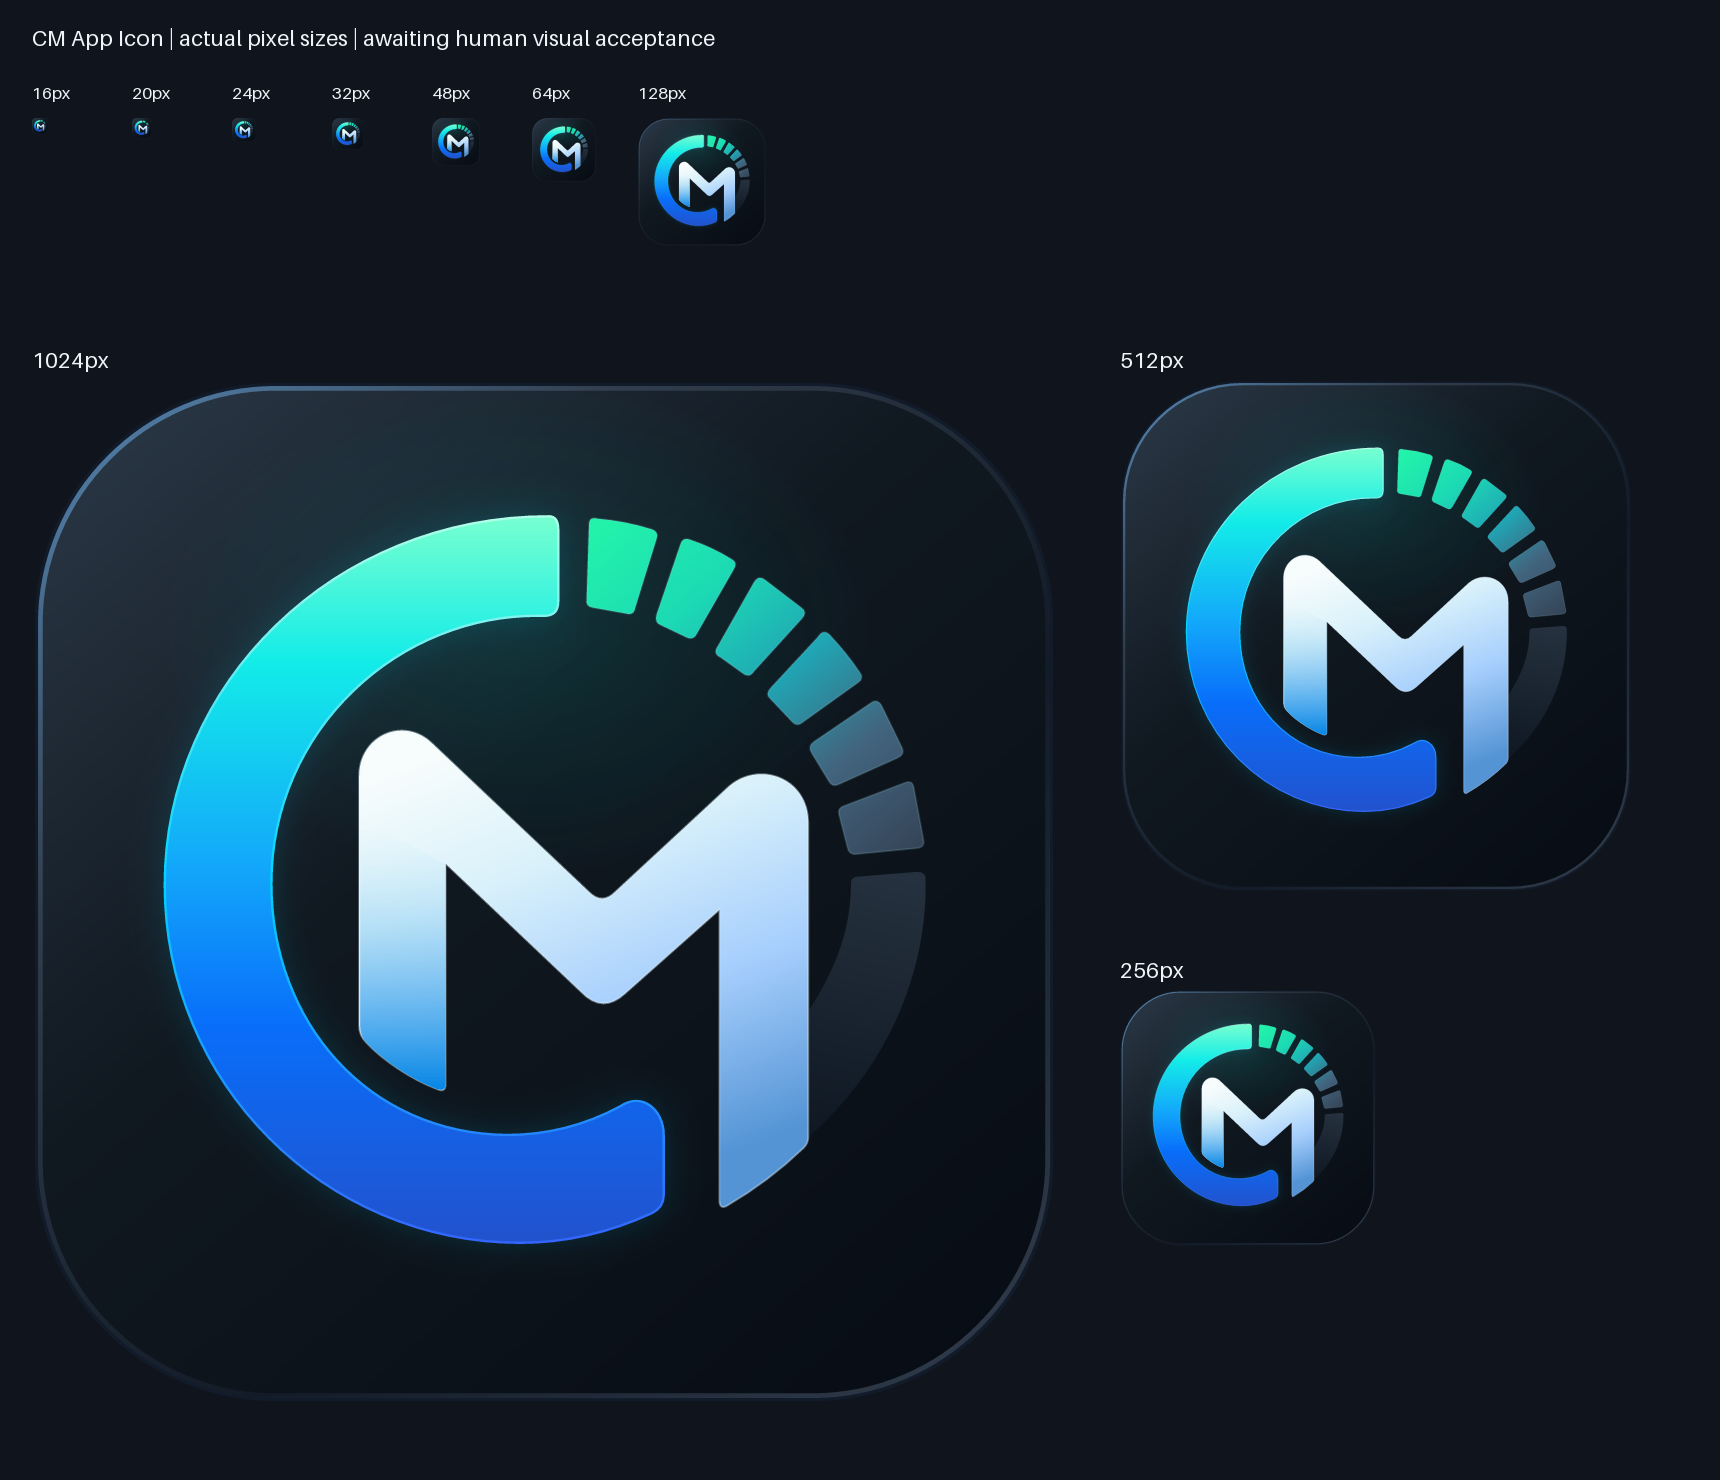
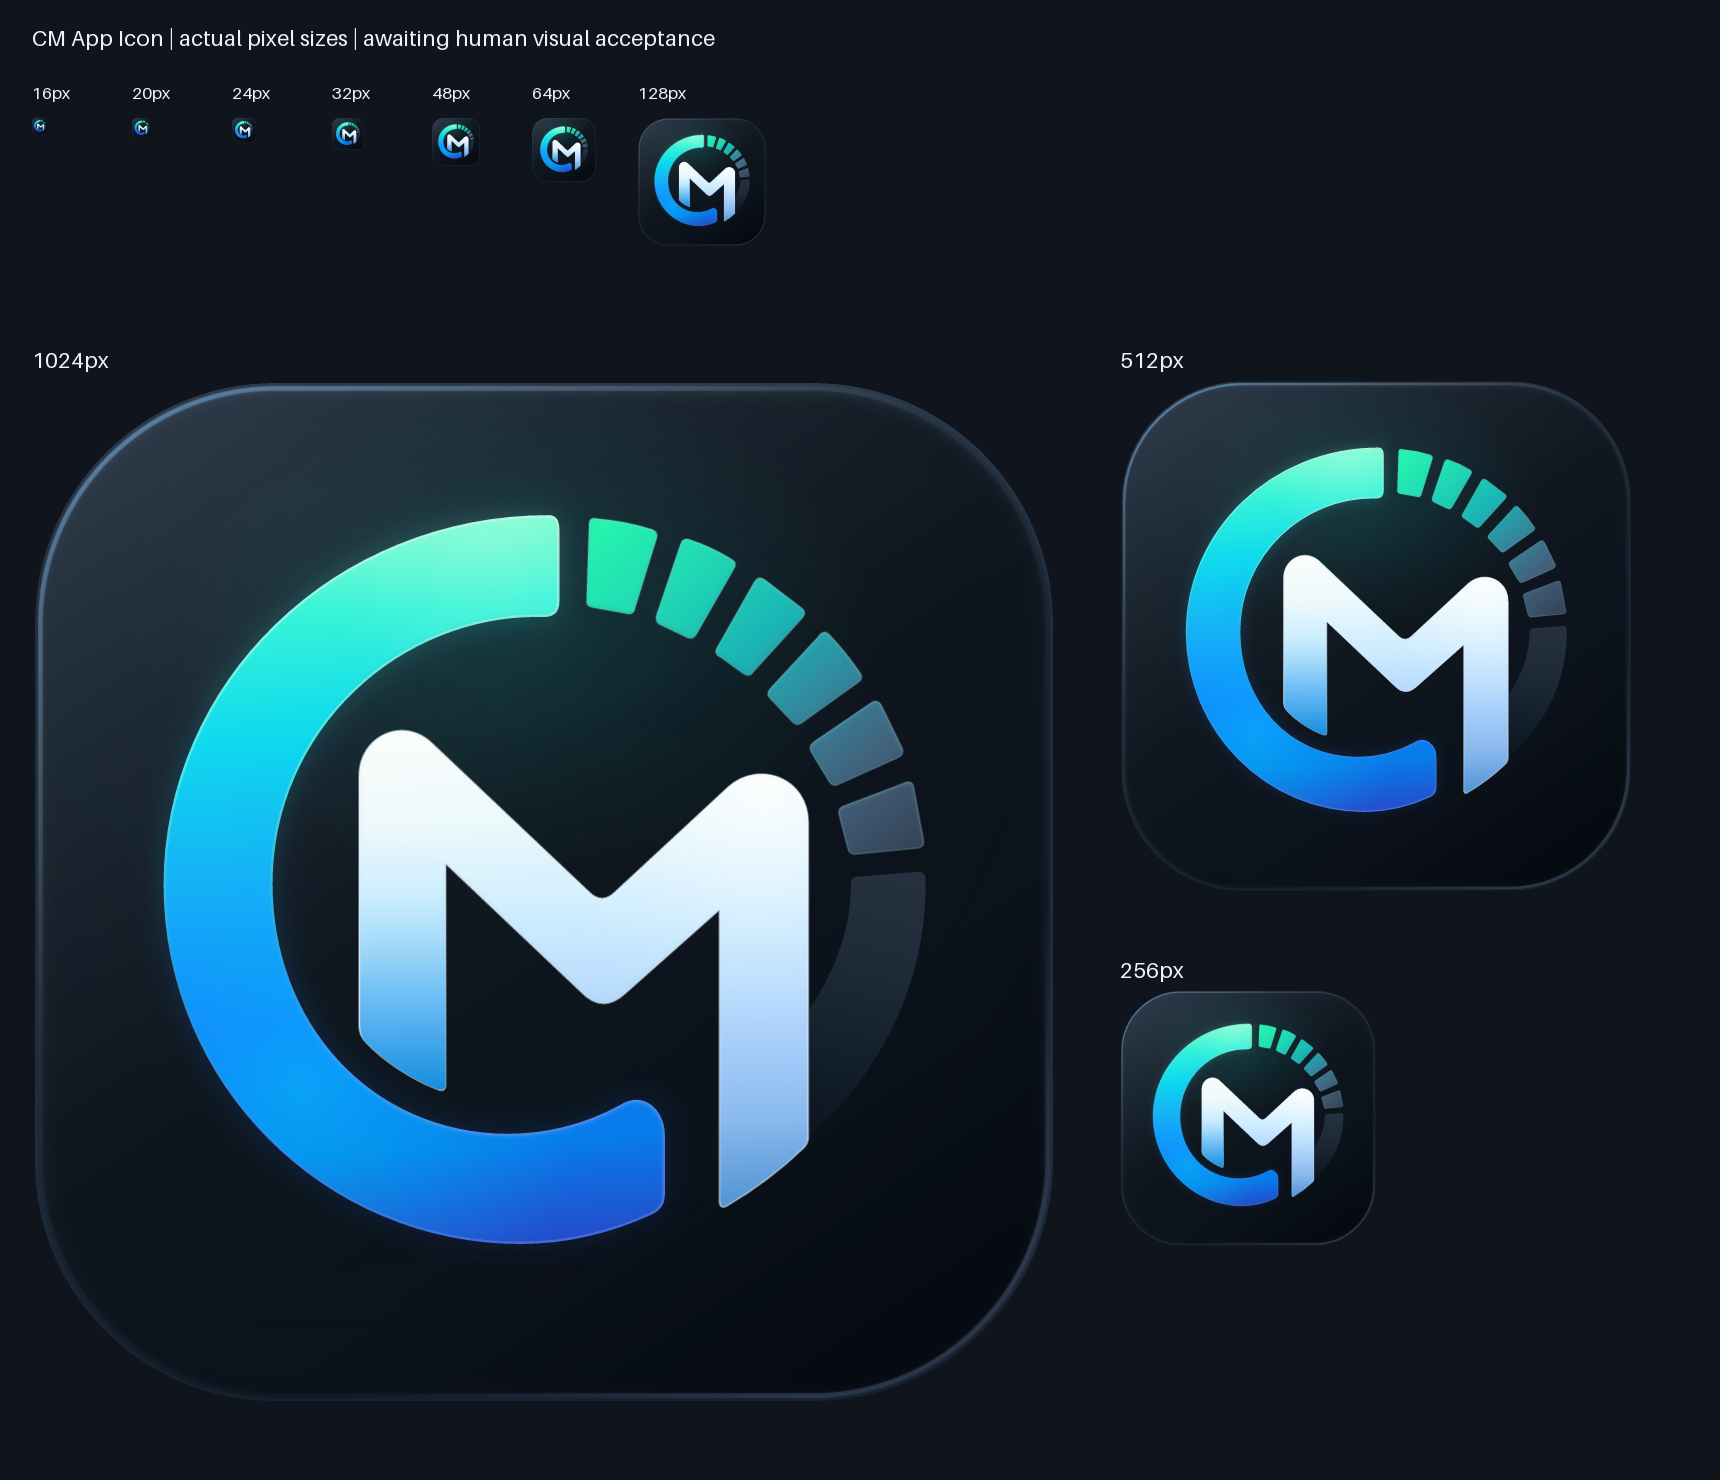
docs: record CM material fidelity validation

diff --git a/docs/branding/v1.2/validation/cm-material-review.py b/docs/branding/v1.2/validation/cm-material-review.py
@@ -1,0 +1,131 @@
+"""Reproduce material-only geometry/tiny checks and Reference / Before / After sheets.
+Run with Python + Pillow after node scripts/generate-brand-icons.mjs.
+Before is read from the accepted Git baseline, never from an unlabelled raster.
+"""
+from io import BytesIO
+from pathlib import Path
+import hashlib
+import json
+import subprocess
+import xml.etree.ElementTree as ET
+from PIL import Image, ImageDraw, ImageFont, ImageChops
+
+ROOT = Path(__file__).resolve().parents[4]
+BASE = '93ce0b2684cb7272bb30ccc8cb56fa045d0c3bb8'
+BRAND = 'docs/branding/v1.2/'
+OUT = 'src-tauri/icons/'
+DEST = ROOT / BRAND / 'validation'
+
+
+def before(path):
+    return subprocess.check_output(['git', 'show', f'{BASE}:{path}'], cwd=ROOT)
+
+
+def current(path):
+    return (ROOT / path).read_bytes()
+
+
+def decoded(data):
+    image = Image.open(BytesIO(data))
+    image.load()
+    return image.convert('RGBA')
+
+
+def digest(data):
+    return hashlib.sha256(data).hexdigest()
+
+
+reference = current(BRAND + 'app-icon-reference.png')
+assert reference == before(BRAND + 'app-icon-reference.png')
+assert len(reference) == 1316884
[1 lines of base64/hex data omitted]
+assert decoded(reference).size == (1254, 1254)
+old_svg = ET.fromstring(before(BRAND + 'app-icon-source.svg'))
+new_svg = ET.fromstring(current(BRAND + 'app-icon-source.svg'))
+# Additional uses are explicitly permitted material overlays. They reference
+# existing path definitions, contain no geometry/transform and cannot extend them.
+overlays = {'c-cyan-light-overlay': '#c', 'c-mint-light-overlay': '#c', 'm-ice-light-overlay': '#m'}
+geometry_tags = {'svg', 'path', 'rect', 'ellipse', 'circle', 'line', 'polygon', 'polyline', 'clipPath', 'use'}
+geometry_attributes = {'d', 'x', 'y', 'width', 'height', 'rx', 'ry', 'cx', 'cy', 'r', 'points',
+                       'viewBox', 'transform', 'href', 'stroke-width', 'clip-path'}
+
+
+def geometry(root):
+    result = []
+    for element in root.iter():
+        if element.get('id') in overlays:
+            assert element.tag.endswith('use')
+            assert element.get('href') == overlays[element.get('id')]
+            assert set(element.attrib) == {'id', 'href', 'fill'}
+            continue
+        if element.tag.split('}')[-1] in geometry_tags:
+            result.append((element.tag, {key: value for key, value in element.attrib.items() if key in geometry_attributes}))
+        # Also disallow material transforms on ancestor groups.
+        if element.tag.endswith('g'):
+            assert 'transform' not in element.attrib
+    return result
+
+
+assert geometry(old_svg) == geometry(new_svg), 'Blocked — CM Geometry Drift'
+for tag in ('path', 'rect', 'ellipse', 'clipPath'):
+    assert sum(e.tag.split('}')[-1] == tag for e in old_svg.iter()) == sum(e.tag.split('}')[-1] == tag for e in new_svg.iter())
+assert before(BRAND + 'app-icon-small-source.svg') == current(BRAND + 'app-icon-small-source.svg')
+for path in ('scripts/generate-brand-icons.mjs', 'scripts/validate-brand-icons.py'):
+    assert before(path) == current(path)
+tiny_files = [OUT + f'{kind}-{size}.png' for kind in ['app', 'tray'] for size in [16, 20]]
+tiny_files.append(OUT + 'ios/AppIcon-20x20@1x.png')
+for path in tiny_files:
+    assert before(path) == current(path), f'Tiny bytes changed: {path}'
+alpha_checks = []
+for size in [16, 20, 24, 32, 48, 64, 128, 256, 512, 1024]:
+    old = decoded(before(OUT + f'app-{size}.png'))
+    new = decoded(current(OUT + f'app-{size}.png'))
+    oa, na = old.getchannel('A'), new.getchannel('A')
+    # Lighting is confined to the tile; no new interior transparent holes.
+    interior = oa.point(lambda value: 255 if value == 255 else 0)
+    missing = na.point(lambda value: 255 if value < 255 else 0)
+    assert ImageChops.multiply(interior, missing).getbbox() is None
+    assert na.getbbox() == oa.getbbox()
+    alpha_checks.append({'size': size, 'same_alpha_bbox': True, 'no_new_transparent_holes': True,
+                         'alpha_byte_identical': oa.tobytes() == na.tobytes()})
+# Main blur has 20% filter padding (> 3 sigma) and remains well inside the tile.
+blur = next(e for e in new_svg.iter() if e.get('id') == 'soft-glow')
+sigma = float(next(iter(blur)).get('stdDeviation'))
+assert sigma * 3 < min(421 * .2, 613 * .2, 307 - 199, 298 - 187)
+assert blur.get('x') == '-20%' and blur.get('width') == '140%'
+
+# Display-only crop follows the frozen viewBox. At transparent rounded corners,
+# the baseline silhouette masks the presentation background/shadow. The approved
+# PNG is never written back or used as a runtime input.
+reference_tile = decoded(reference).crop((195, 183, 1059, 1047))
+font = ImageFont.load_default(size=25)
+small = ImageFont.load_default(size=19)
+layout = [(256, 130), (512, 480), (1024, 1080)]
+for theme, bg, fg in [('light', '#eceff3', '#17202b'), ('dark', '#10141c', '#eef3fa')]:
+    sheet = Image.new('RGBA', (3216, 2160), bg)
+    draw = ImageDraw.Draw(sheet)
+    draw.text((32, 20), 'CM MATERIAL | REFERENCE / BEFORE / AFTER | Human visual acceptance pending', font=font, fill=fg)
+    draw.text((32, 60), 'Actual 256 / 512 / 1024 pixels. Reference: tile-only crop; Before: 93ce0b2; After: current CM source.', font=small, fill=fg)
+    for size, y in layout:
+        original = decoded(before(OUT + f'app-{size}.png'))
+        polished = decoded(current(OUT + f'app-{size}.png'))
+        ref = reference_tile.resize((size, size), Image.Resampling.LANCZOS)
+        ref.putalpha(original.getchannel('A'))
+        for column, (label, image) in enumerate([('REFERENCE', ref), ('BEFORE', original), ('AFTER', polished)]):
+            x = 32 + column * 1064
+            draw.text((x, y - 34), f'{label} | {size}px', font=font, fill=fg)
+            sheet.alpha_composite(image, (x, y))
+    sheet.convert('RGB').save(DEST / f'cm-material-compare-{theme}.png')
+report = {
+    'baseline': BASE, 'reference_unchanged': True, 'geometry_unchanged': True,
+    'geometry_records_compared': len(geometry(old_svg)),
+    'material_overlays': overlays, 'tiny_source_unchanged': True,
+    'generator_and_existing_validator_unchanged': True,
+    'tiny_byte_identical': {path: digest(current(path)) for path in tiny_files},
+    'alpha_checks': alpha_checks, 'glow_3sigma_inside_filter_and_tile': True,
+    'comparison_sizes': [256, 512, 1024],
+    'reference_display': 'Frozen viewBox crop, baseline silhouette alpha for presentation corners only',
+    'human_visual_acceptance': 'Pending; no similarity score or tool inspection establishes acceptance'
+}
+(DEST / 'cm-material-technical-validation.json').write_text(json.dumps(report, indent=2) + '\n')
+print('Material checks passed: geometry frozen, tiny bytes frozen, generator unchanged; 2 comparison sheets generated.')

diff --git a/docs/v1.2.0-feature-validation-report.md b/docs/v1.2.0-feature-validation-report.md
@@ -2,7 +2,7 @@
 
 ## State and provenance
 
-**Blocked** — implementation and historical cross-platform CI are complete. Branding: **Correct CM Runtime Rebuilt — Awaiting Human Visual Acceptance**. The complete approved reference has been verified and CM runtime assets reconstructed. Previous C + Bars visual/container conclusions remain invalidated. Remaining native platform gates and human visual acceptance are outstanding. This is feature development, not release preparation. Version files remain **1.1.0** until all feature/native prerequisites in the task are met. No downgrade support is claimed.
+**Blocked** — implementation and historical cross-platform CI are complete. Branding: **CM Material Fidelity Polish Complete — Awaiting Human Visual Acceptance**. The complete approved reference has been verified and CM runtime assets reconstructed. Previous C + Bars visual/container conclusions remain invalidated. Remaining native platform gates and human visual acceptance are outstanding. This is feature development, not release preparation. Version files remain **1.1.0** until all feature/native prerequisites in the task are met. No downgrade support is claimed.
 
 - Main baseline: `f99f084641c6d28d703bb20da002443bb1864ea8`.
 - Locked icon source / feature start: `297476c9c818174e7a53585041db34fc5be87e9e`, with the exact baseline parent.
@@ -41,7 +41,7 @@ Token content moves upward (full 284px, compact 230px); By Model list viewport m
 
 ## Branding Correction — 2026-09-12
 
-**Correct CM Runtime Rebuilt — Awaiting Human Visual Acceptance**
+**CM Material Fidelity Polish Complete — Awaiting Human Visual Acceptance**
 
 - Branding implementation commit: `cc230e8aa6341c10acdc34d453a918804dbced40`.
 - Reconstruction start: `b2c4d41fd35f59a4381b1370f507aa5a999b3cb7`, clean `feat/v1.2.0`, matching origin after fetch.
@@ -57,7 +57,30 @@ Token content moves upward (full 284px, compact 230px); By Model list viewport m
 - **Native / visual: Not yet human accepted.** No final native acceptance was attempted. The earlier truncated-source blocker is resolved by the verified complete reference at the reconstruction baseline.
 - Historical Phase 0, Schema 3, Token accounting, Quota Snapshot, By Turn, UI, geometry and CI evidence remains valid within its original scope. Only branding conclusions are replaced.
 
-### Current CM technical verification
+### CM Material Fidelity Polish — current validation
+
+- Material commit: `c18cbe72ac6bbc916bb30495a9a4febbf4c0c792`.
+
+- Start: `93ce0b2684cb7272bb30ccc8cb56fa045d0c3bb8`, clean `feat/v1.2.0`, equal to origin after fetch.
[1 lines of base64/hex data omitted]
+- User-confirmed baseline: CM identity, C/M/arc, 16/20/24/32px, Tray direction and large-size geometry. Only large-size material fidelity is pending in this task; native platform gates remain separate.
+- **Geometry unchanged:** 19 original geometry records match, including C/M/segments/tail, Tile coordinates/radius, clip geometry, viewBox and stroke widths. Three material overlays only reuse the existing C/M path definitions without transforms or new contours.
+- **Tiny source unchanged:** source and 16/20px App/Tray plus iOS 20px rasters are byte-identical. Generator and existing validator are unchanged.
+- **Tile polish:** multi-stop surface shading, restrained vignette, softer rim, inner edge light/shadow.
+- **C polish:** refined mint/cyan/blue stops, soft coloured glow, light/shade edge depth and subdued cyan/mint bloom.
+- **M polish:** ice-white/light-blue material, softened left blue reflection, cold edge highlights and subtle upper-right lighting.
+- **Segments / tail:** naturally attenuating green/cyan/blue-gray segment shading and subdued dark tail; geometry/count unchanged.
+- **Small sizes:** 16/20 exact bytes preserved; 24/32 technical checks and enlarged tool-side review found no obvious clarity regression. No separate Tray adaptation was needed.
+- **Alpha / clipping:** all generated PNGs pass the existing fringe/alpha checks; no new transparent interior holes, unchanged raster bounds, glow support fits inside its filter region and Tile. Some 24–256px antialias fringe alpha values change with the filters; 512/1024 alpha channels are byte-identical. Geometry attributes are unchanged.
+- **Determinism:** repeated generator and material review produced 77 byte-identical files.
+- **Containers/platforms:** 63 PNGs decode; ICO 8 entries and ICNS 11 entries decode and match their generated sources; Windows, Android and iOS assets regenerate successfully.
+- **Current regressions:** npm ci, updater policy, frontend **174 passed / 14 files**, build, both audits (**0 vulnerabilities**), Rust **89 passed + 2 existing ignored**, fmt, clippy `-D warnings`, and diff checks passed. No test or threshold was changed.
+- **Frozen functionality/version:** no component, accounting, Schema, Quota, geometry/window behavior or version-file changes. Version **1.1.0**, identifier **app.quotafloat.desktop**.
+- [Reference / Before / After — light](branding/v1.2/validation/cm-material-compare-light.png), [dark](branding/v1.2/validation/cm-material-compare-dark.png): actual 256/512/1024px rows; Before from the exact baseline. Reference is display-cropped/masked only; the approved source is untouched.
+- [Reproducible geometry/tiny/material evidence](branding/v1.2/validation/cm-material-technical-validation.json).
+- **Human gate pending:** tool inspection and technical checks do not establish material similarity acceptance. No native final acceptance, version bump, merge, tag or release was performed.
+
+### Prior CM reconstruction technical verification
 
 | Check | Result |
 | --- | --- |
@@ -200,4 +223,4 @@ Package, package lock, Cargo manifest/lock and Tauri remain **1.1.0**. Identifie
 
 `FINAL_V1_2_FEATURE_CI_RUN_ID`: **not assigned**. A versioned 1.2.0 final feature build is not produced because native prerequisites remain incomplete. The historical run `34610695055` remains historical evidence only. Any push-triggered CI for this unversioned icon fix is an intermediate check and must not be represented as the final versioned feature build. Its run/head can be resolved from the feature branch CI history and delivery response.
 
-**Icon task Final State: Ready for Correct CM Icon Human Validation.** Overall feature/native release gate remains **Blocked** pending the previously listed human/native gates. Preserve the feature branch and version 1.1.0. Do not merge main, tag or publish.
+**Icon task Final State: Ready for CM Material Human Validation.** Overall feature/native release gate remains **Blocked** pending the previously listed human/native gates. Preserve the feature branch and version 1.1.0. Do not merge main, tag or publish.

diff --git a/docs/branding/v1.2/README.md b/docs/branding/v1.2/README.md
@@ -1,6 +1,6 @@
 # Codex Monitor v1.2 CM branding
 
-**Correct CM Runtime Rebuilt — Awaiting Human Visual Acceptance**
+**CM Material Fidelity Polish Complete — Awaiting Human Visual Acceptance**
 
 ## Approved Reference
 
@@ -10,6 +10,38 @@ The only approved visual reference is [app-icon-reference.png](app-icon-referenc
[1 lines of base64/hex data omitted]
 - Identity: **C + M + segmented monitoring arc**.
 - **C + Bars = Superseded**. Old ascending bars, three-bar Tray and violet artifacts are not active sources, build inputs, runtime assets or current validation evidence.
+
+## Material fidelity polish
+
+Baseline: `93ce0b2684cb7272bb30ccc8cb56fa045d0c3bb8`. The user confirmed CM identity, C/M/arc geometry, small-size readability and Tray direction at that baseline; large-size material fidelity remained pending. That confirmation does not establish native platform acceptance.
+
+The main SVG now refines material only:
+
+- Tile: multi-stop blue-black shading, a restrained surface vignette, softened rim and alpha-confined inner edge light/shadow.
+- C: mint/cyan/royal-blue stops, a soft coloured glow, fine edge depth and low-opacity cyan/mint light overlays.
+- M: ice-white to light-blue stops, softer blue reflection on the existing left overlay, fine cold edge lighting and a subtle white light overlay on the upper right.
+- Segments: green/cyan to blue-gray/dark-gray attenuation with restrained edge lighting; count and positions unchanged.
+- Arc tail: a subdued multi-stop dark blue-gray material.
+
+All existing `path d`, rectangle/ellipse coordinates and dimensions, radii, clip geometry, viewBox, C/M placement and stroke widths are unchanged. The three additional lighting uses reference the existing `#c`/`#m` definitions, contain no transform or geometry attributes, and add no new contour. Filter offsets operate only on light/shadow masks. The tiny SVG, generator and original validator are byte-identical to the baseline.
+
+App/Tray 16/20px and iOS 20px are byte-identical to the accepted baseline. 24/32px retain the main CM geometry; technical and tool-side enlarged review found no obvious blur/segment merging, so no Tray-specific generation change was needed. Material filters affect some antialias fringe alpha values at 24–256px; raster bounds and opaque interiors remain intact, and 512/1024 alpha channels are unchanged. This is not a claim of human visual acceptance.
+
+### Reference / Before / After
+
+- [Material comparison — light](validation/cm-material-compare-light.png)
+- [Material comparison — dark](validation/cm-material-compare-dark.png)
+- [Material technical evidence](validation/cm-material-technical-validation.json)
+
+Each sheet includes actual **256, 512 and 1024px** rows in three columns. Before assets are read from the exact baseline Git commit. Reference uses the frozen viewBox crop and baseline silhouette alpha solely to hide presentation corners; the original PNG is untouched. Open at 100% for actual-pixel material review.
+
+After generating runtime assets, reproduce these checks and sheets with the same Pillow-enabled interpreter:
+
+```sh
+python3 docs/branding/v1.2/validation/cm-material-review.py
+```
+
+Generation and review were repeated: **77 files byte-identical**, covering runtime assets, current sheets, material comparisons and their evidence. The existing generator also passed PNG/alpha/fringe/component checks and all 8 ICO / 11 ICNS representation decodes.
 
 ## Maintained technical sources
 
@@ -56,4 +88,4 @@ Native code still includes `icons/tray-32.png`. Tray behavior and bundle configu
 
 All-size sheets include actual 16/20/24/32/48/64/128/256/512/1024px rasters. Tiny sheets show actual 16/20/24/32px plus integer nearest-neighbor enlargements. Open sheets at 100% to inspect actual pixels; an automatically fitted preview changes their displayed size.
 
-**Ready for Correct CM Icon Human Validation.** User review of App/Tray identity, tiny readability, composition and material fidelity remains outstanding. This work does not establish macOS/Windows Native Final Acceptance, menu-bar/full-screen/Dock/edge acceptance or release readiness. Version stays **1.1.0**, identifier **app.quotafloat.desktop**.
+**Ready for CM Material Human Validation.** Human review of the newly polished large-size material fidelity remains outstanding. Baseline identity/geometry/small-size approval is retained; the material changes are not automatically accepted. This work does not establish macOS/Windows Native Final Acceptance, menu-bar/full-screen/Dock/edge acceptance or release readiness. Version stays **1.1.0**, identifier **app.quotafloat.desktop**.
